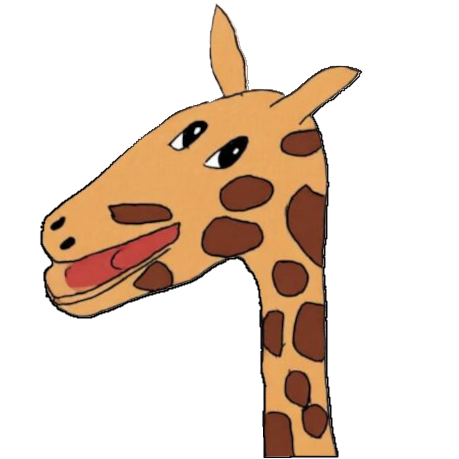
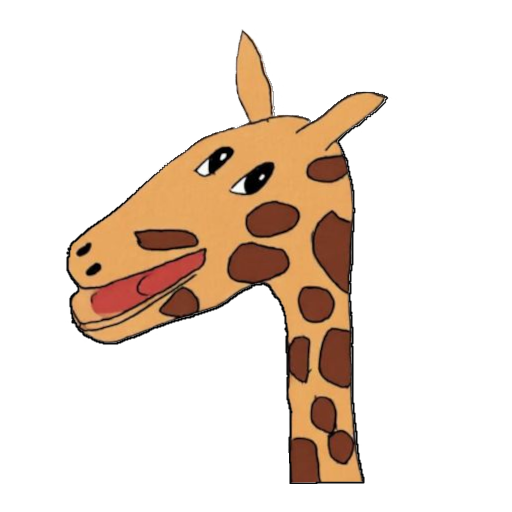
docs(install): update install method for Fedora 42+

Changed region(s): [[0.061, 0.0, 0.793, 1.0]]

diff --git a/docs/install.md b/docs/install.md
@@ -13,9 +13,26 @@ cargo binstall ringdrop
 
 ---
 
-## Linux
+## Fedora 42+
 
-### Via Cargo (recommended)
+### Via DNF COPR (recommended)
+
+```sh
+dnf copr enable rikettsie/ringdrop
+dnf install ringdrop
+```
+
+To upgrade later:
+
+```sh
+dnf upgrade ringdrop
+```
+
+---
+
+## Linux (all distributions)
+
+### Via Cargo
 
 Requires Rust. If you don't have it yet:
 

diff --git a/README.md b/README.md
@@ -10,7 +10,7 @@
 
 </div>
 
-<img width="38%" align="right" src="https://raw.githubusercontent.com/rikettsie/ringdrop/main/docs/mascot.png">
+<img width="35%" align="right" src="https://raw.githubusercontent.com/rikettsie/ringdrop/main/docs/mascot.png">
 
 > **Ringdrop** is a secure, frugal streamed P2P file transfer tool,
 > with *ring-based* access control, built on [iroh-blobs](https://github.com/n0-computer/iroh-blobs)
@@ -33,12 +33,13 @@ Access control is enforced at the connection level. Ring–resource associations
 
 | Platform | Quick command |
 |---|---|
-| Linux | `cargo install ringdrop` |
+| Fedora 42+ | `dnf copr enable rikettsie/ringdrop && dnf install ringdrop` |
+| Linux (all distributions) | `cargo install ringdrop` |
 | macOS | `brew tap rikettsie/tap && brew install rdrop` |
 | Windows (PowerShell) | `scoop bucket add rikettsie https://github.com/rikettsie/scoop-bucket; scoop install rdrop` |
 | All platforms (pre-built bin) | `cargo binstall ringdrop` |
 
-The crate is named `ringdrop`, but the binary is **`rdrop`** more succinct to type in the command line.
+The crate's name is `ringdrop`; the CLI binary is **`rdrop`**, more succinct to type in the command line.
 
 For prerequisites, alternative install methods, and troubleshooting see [docs/install.md](docs/install.md).
 